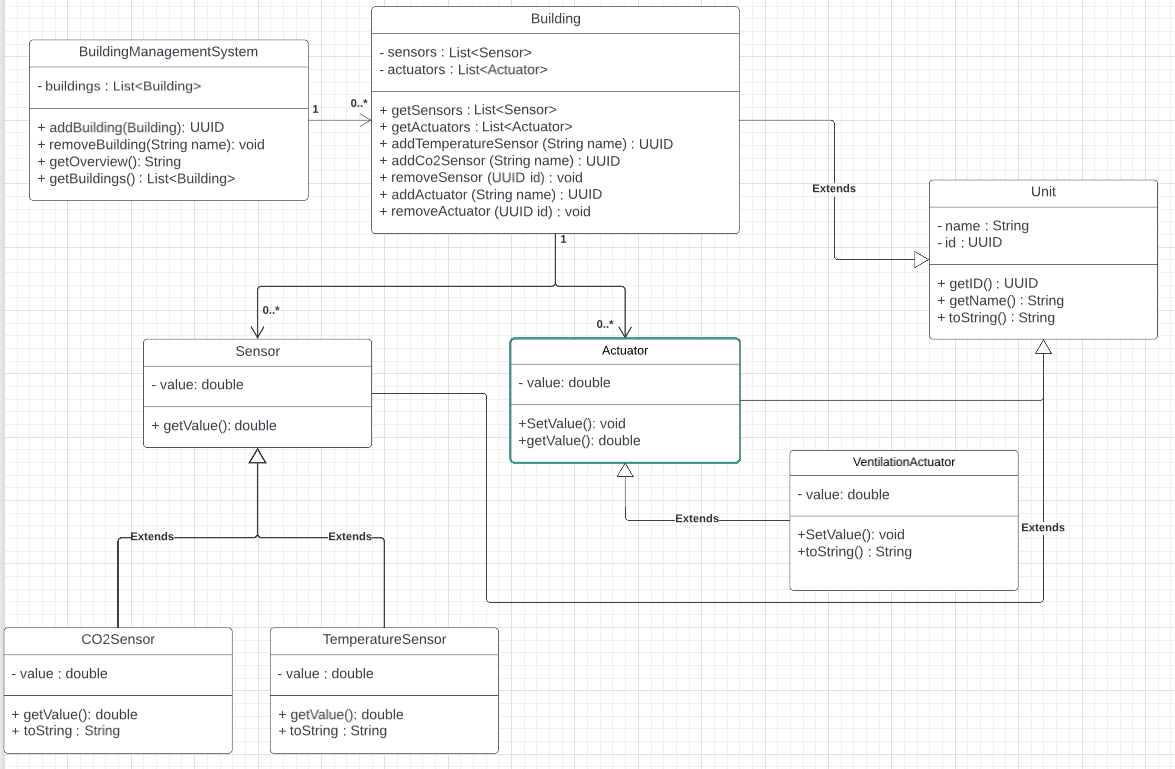
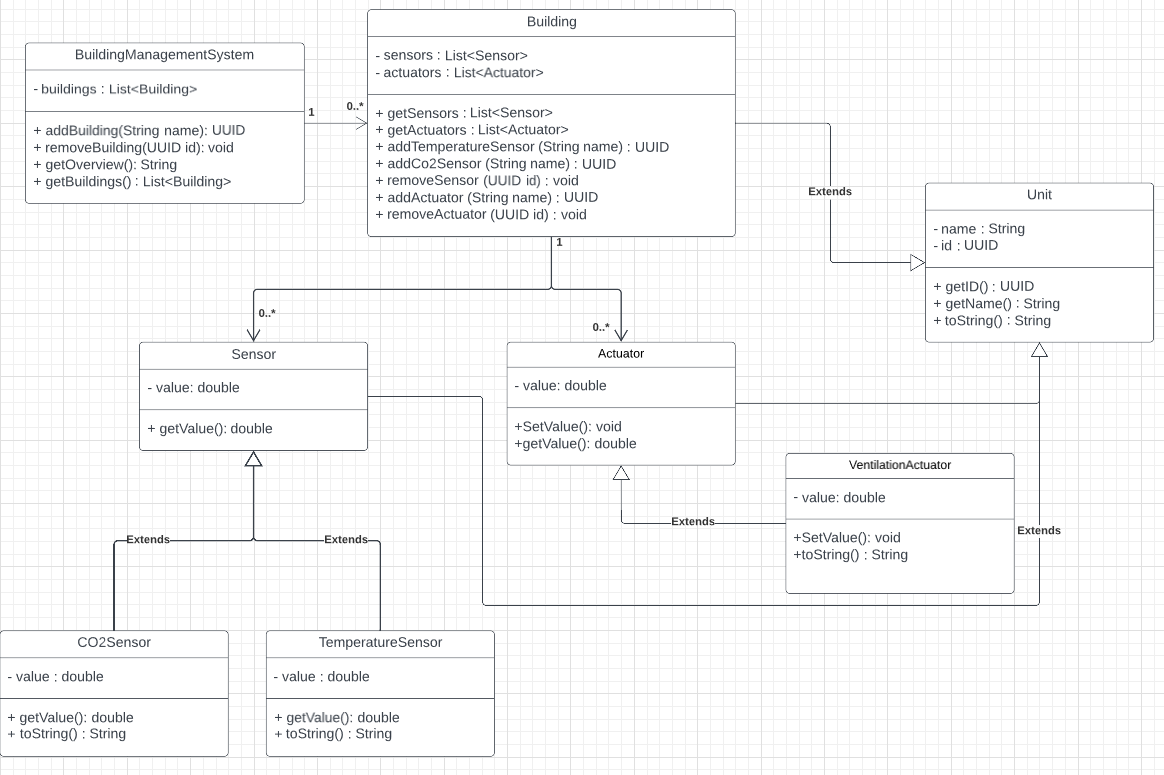
added first iteration of management system

diff --git a/src/domain/BuildingManagementSystem.java b/src/domain/BuildingManagementSystem.java
@@ -1,4 +1,36 @@
 package domain;
 
+import java.util.List;
+import java.util.UUID;
+
 public class BuildingManagementSystem {
+    List<Building> buildings;
+
+    public List<Building> getBuildings() {
+        return buildings;
+    }
+
+    public UUID addBuilding(String name) {
+        Building building = new Building(name);
+        buildings.add(building);
+        return building.getID();
+    }
+
+    public void removeBuilding(UUID id) {
+        for (int i = 0; i < buildings.size(); i++) {
+            if (buildings.get(i).getID() == id){
+                buildings.remove(i);
+                break;
+            }
+        }
+    }
+
+    public String getOverview() {
+        String s = "";
+        for (Building b : buildings) {
+            s + "Building name: " + b.getName() + "\nUUID: " + b.getID() + "\nSensors"
+            b.getSensors() + "\nActuators" + b.getActuators() + "\n";
+        }
+        return s;
+    }
 }

diff --git a/src/domain/VentilationActuator.java b/src/domain/VentilationActuator.java
@@ -1,3 +1,5 @@
+package domain;
+
 public class VentilationActuator extends Actuator {
     private double value;
 
@@ -9,6 +11,6 @@ public class VentilationActuator extends Actuator {
 
 
     public String toString(){
-        return "the value of the VentilationActuator is" + this.value;
+        return "the value of the domain.VentilationActuator is" + this.value;
     }
 }

diff --git a/src/domain/Actuator.java b/src/domain/Actuator.java
@@ -1,3 +1,5 @@
+package domain;
+
 public class Actuator {
     private double value;
 

diff --git a/src/domain/Unit.java b/src/domain/Unit.java
@@ -1,3 +1,5 @@
+package domain;
+
 import java.util.UUID;
 
 public class Unit {
